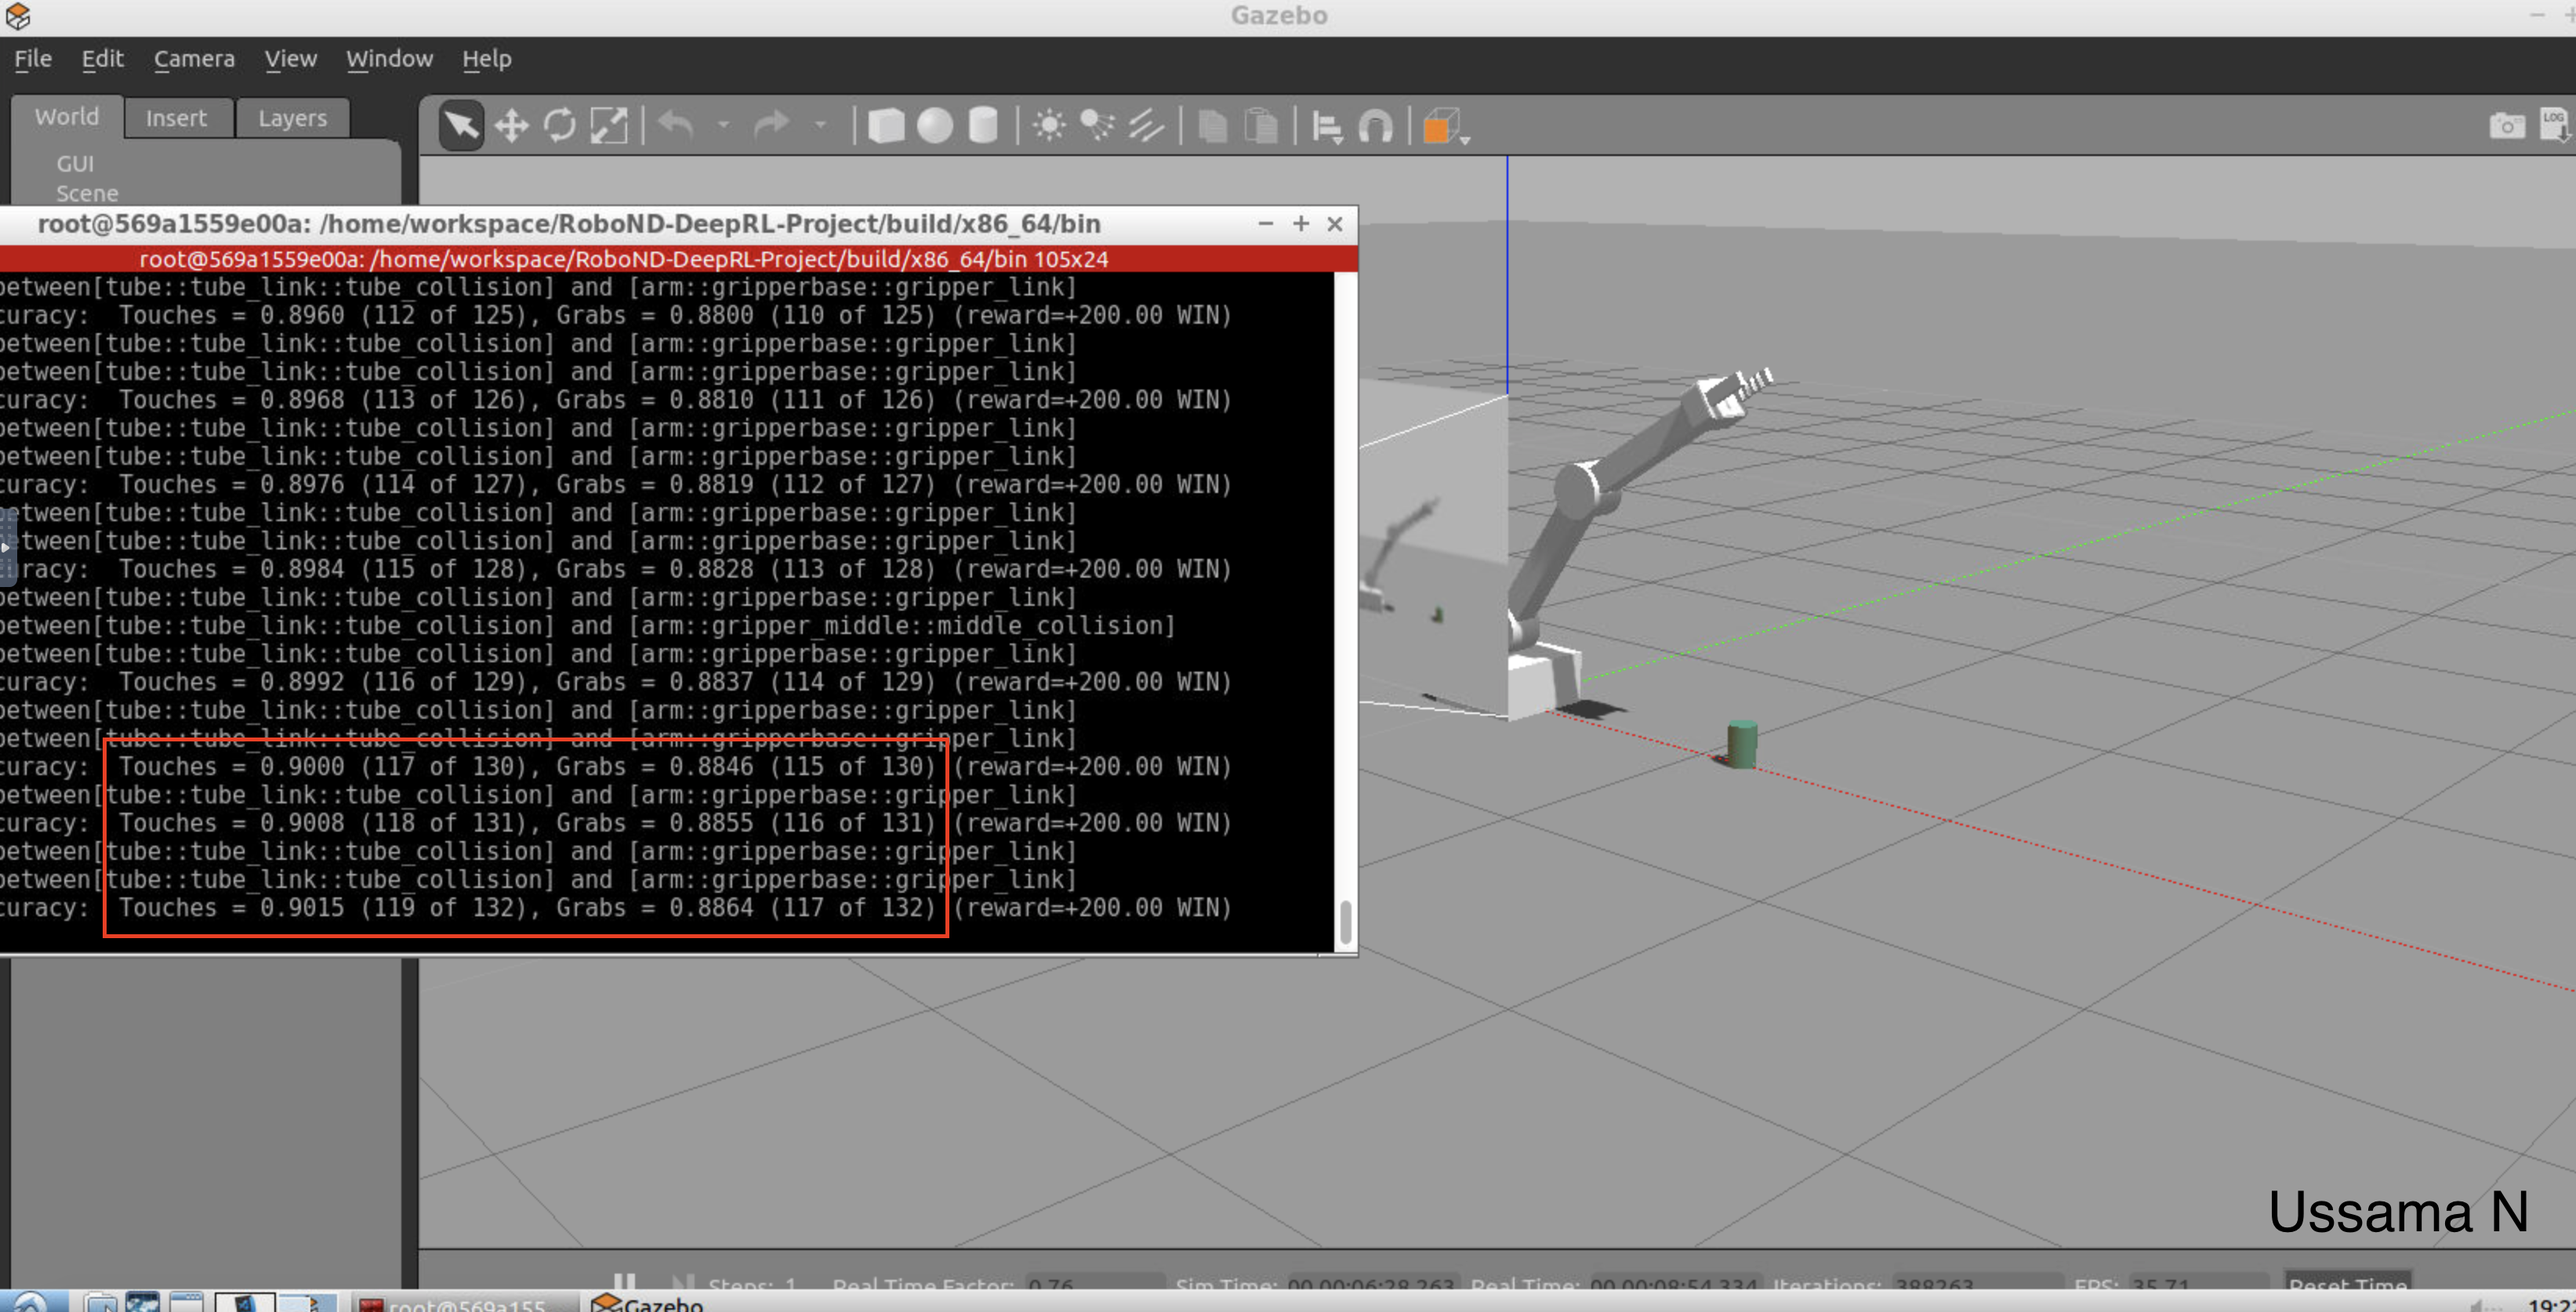
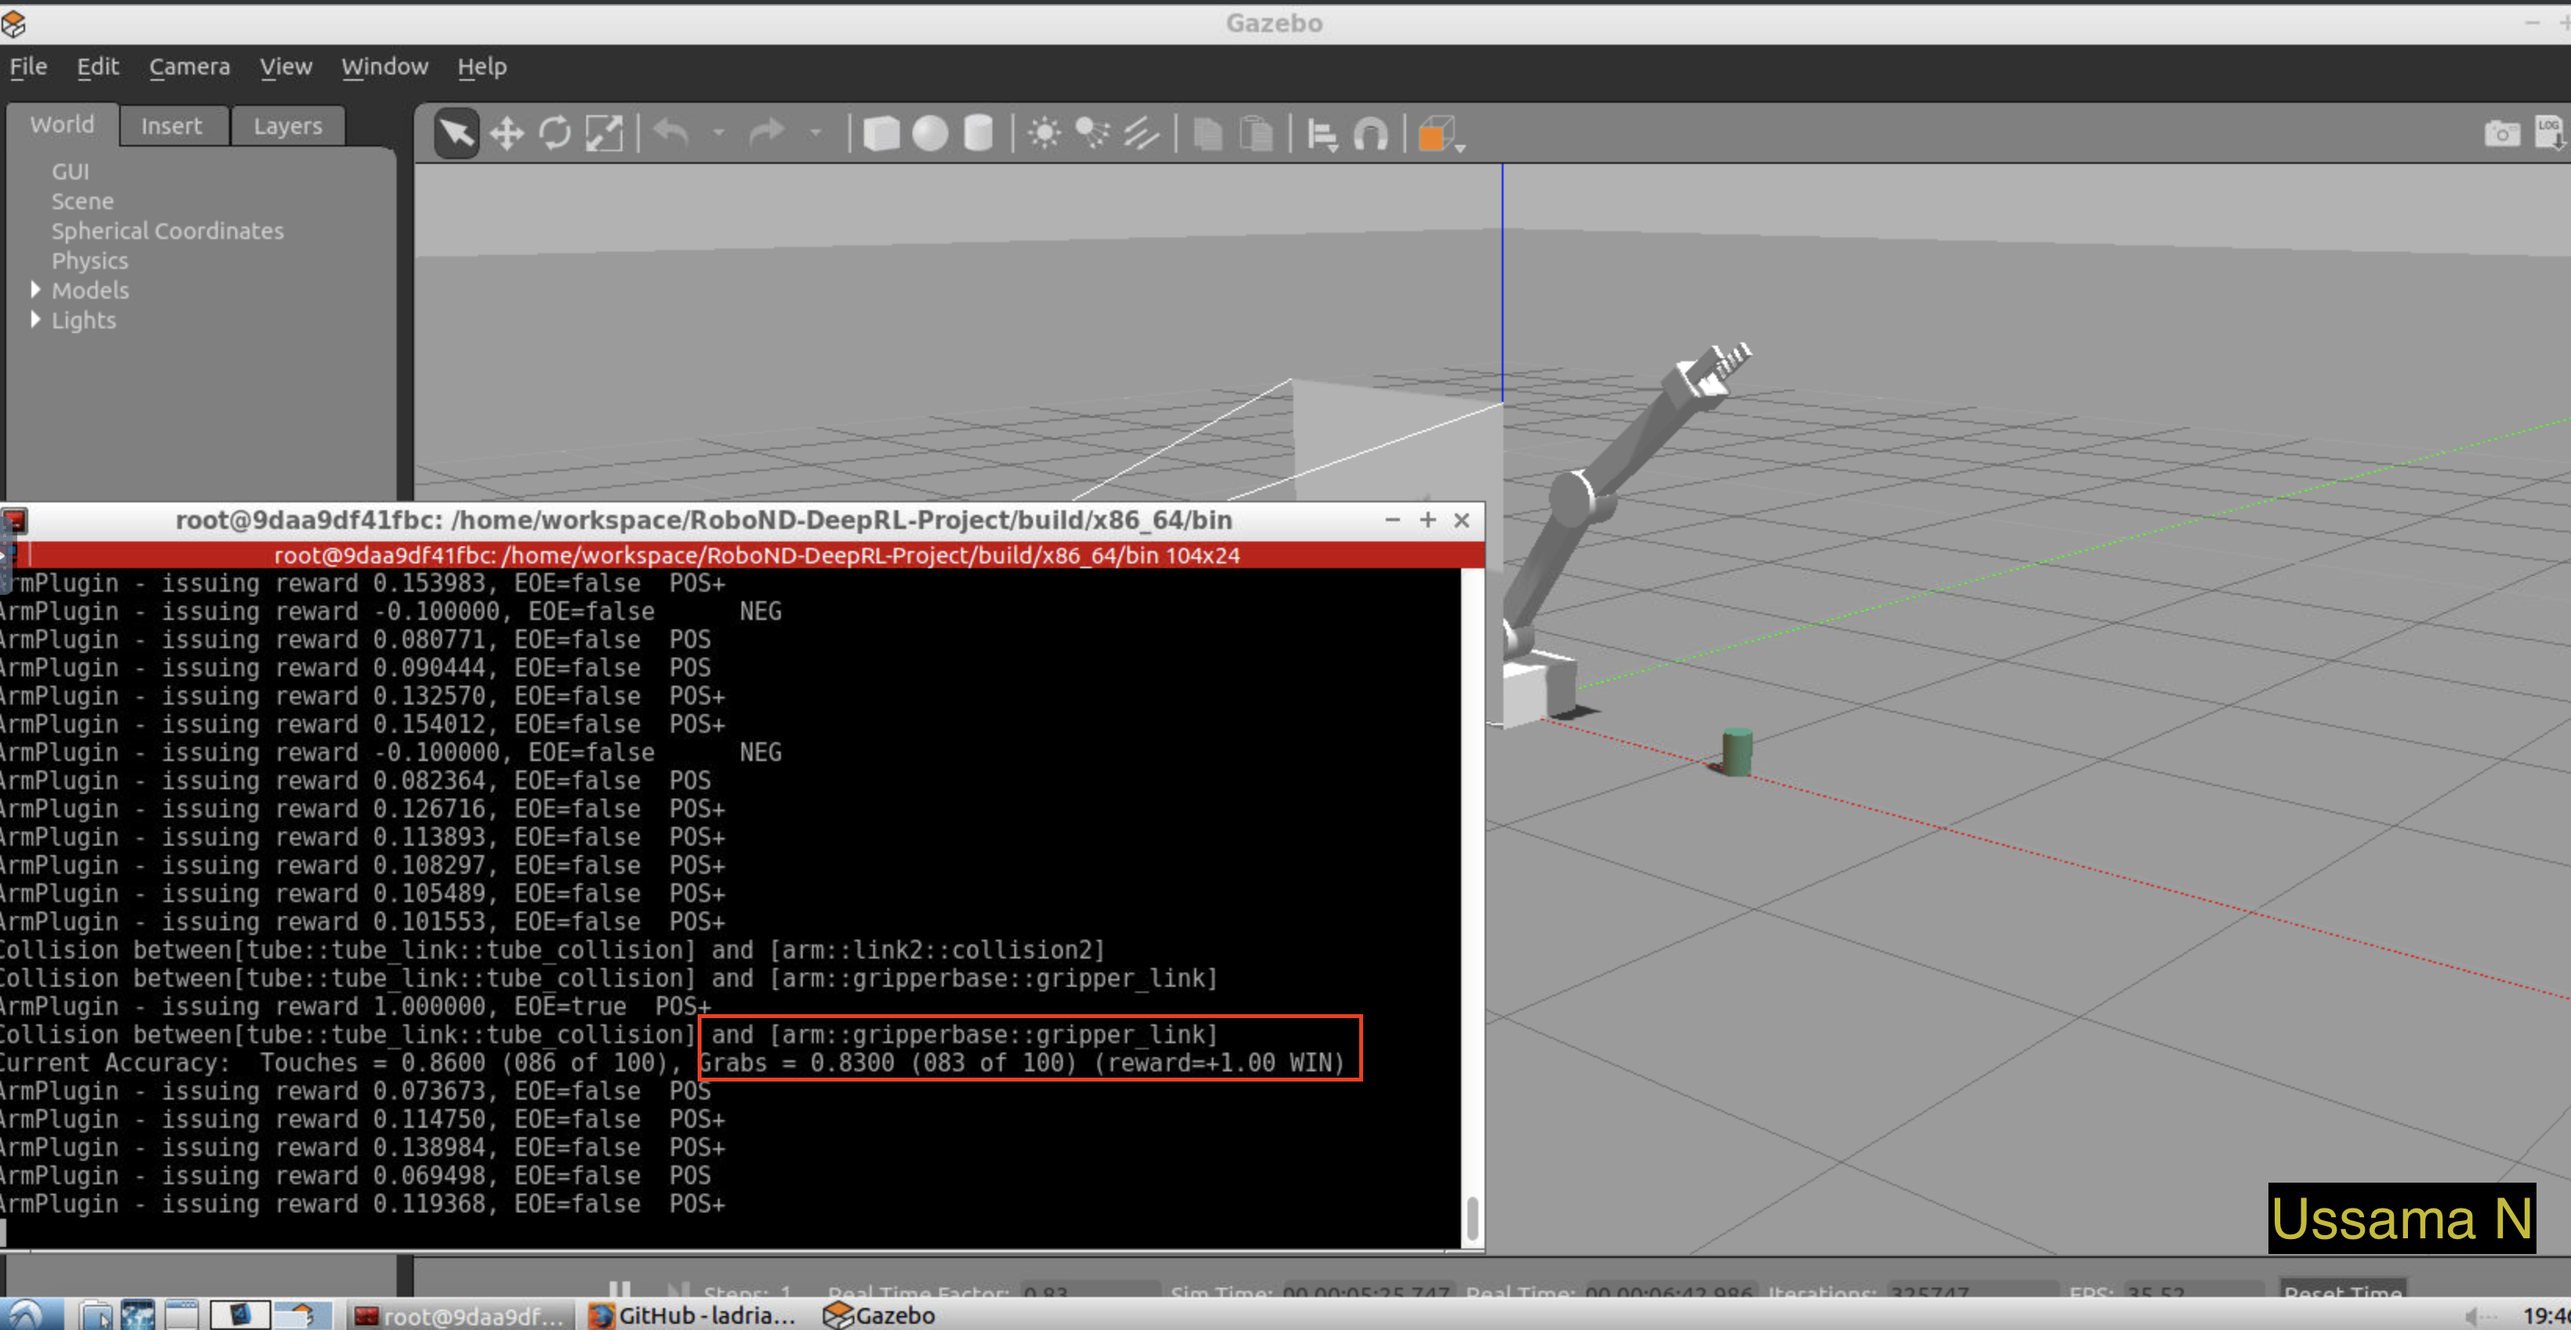
Update raw report files

diff --git a/report/main.tex b/report/main.tex
@@ -6,7 +6,7 @@
 
 \title{Udacity Manipulator Arm Report}
 \author{Ussama Naal}
-\date{May 2019\\v2.0}
+\date{May 2019\\v3.0}
 \begin{document}
 
 \maketitle
@@ -203,9 +203,9 @@ void ArmPlugin::OnUpdate(const common::UpdateInfo& updateInfo)
 
 Table 1, lists all used parameters and their values with a brief explanation to the used values when a value has been changed.
 
-\begin{table}[ht]
-\caption{Parameters}
-\label{table_example}
+\begin{table}[!ht]
+\caption{Initial Parameters}
+\label{initial_params}
 \begin{center}
 \begin{tabular}{|c||c||c|}
 \hline
@@ -249,22 +249,96 @@ For the reward value, I have initially started with +100 and -100 for win and lo
 
 \section{Results}
 
+\subsection{Initiail Results}
 Under current implementation and the selected parameter values the robot achieves about 90\% successful touches and 88\% successful grabs within 130 episodes (Check Figure 1). It reaches easily 80\% within just 100 iterations.
 
 \begin{figure}[!thpb]
       \centering
-      \includegraphics[width=\linewidth]{final-result.png}
-      \caption{Best achieved result.}
+      \includegraphics[width=\linewidth]{initial-result.png}
+      \caption{Initial achieved result.}
       \label{fig:robot1}
 \end{figure}
 
 %Student should describe and briefly explain the results they achieved for both objectives. The discussion should also include their comments on the DQN agent's performance and if there were any shortcomings.
 
-Doubling the REWARD values for WIN and LOSS from previous tests, had a huge impact on the agent performance. This seems to signal to the agent that the final results is the only that matters.
+Doubling the REWARD values for WIN and LOSS from previous tests, had a huge impact on the agent performance. This signals to the agent that the final results is the only that matters.
 
 Some noticeable shortcomings is that the first few iterations greatly decides the final outcome. If the agent was able to touch or grab the object in the beginning, this results in a better chance of the agent achieving the required performance within a 100-150 runs. However, assuming the agent can do more runs then this wouldn't be an issue.
 
+\subsection{Improved Results}
+To make the arm gripper achieve 80+\% accuracy within a 100 frames. I have made couple few changes to the code and tuned parameters appropriately.
+
+In ArmPlugin::OnUpdate we made the following changes:
+\begin{lstlisting}
+void ArmPlugin::OnUpdate(const common::UpdateInfo& updateInfo)
+{
+    ...
+    const float a = 0.5;
+    avgGoalDelta = a * avgGoalDelta + (1 - a) * distDelta;
+    rewardHistory = (avgGoalDelta > 0.01 ? avgGoalDelta : 0.1 * REWARD_LOSS);
+    newReward     = true;
+	...
+}
+\end{lstlisting}
+What this change does it rewards the RL agent only when making significant steps towards the target (+0.01) otherwise the agent is rewarded negatively when it moves away or when the arm stay somewhat stationary.
+
+Another change we implemented is when part of the arm hits the object we used to terminate the episode immediately in fear that the target moves from its place. This was not the cast all the time. The target object can potentially move away but only in fraction of the cases this happens. When the target object stays in place the arm can potentially proceed and succeed in grabbing the object. This allows us to gain more successful grabs. The following listing summarizes these changes
+
+\begin{lstlisting}
+void ArmPlugin::onCollisionMsg(ConstContactsPtr &contacts)
+{
+    ...
+    if (contacts->contact(i).collision1() == COLLISION_ITEM &&
+    	contacts->contact(i).collision2() == COLLISION_POINT)
+    {
+    	rewardHistory = REWARD_WIN;
+    	newReward  = true;
+    	endEpisode = true;
+    	return;
+    }
+    else
+    {
+    	rewardHistory = REWARD_LOSS;
+    	newReward  = true;
+    	endEpisode = false; /* Don't end episode, keep going */
+    }
+    ...
+}
+\end{lstlisting}
+
+Since we removed the multiplication by REWARD\_WIN for interim rewards. The REWARD\_WIN and REWARD\_LOSS had to be adjusted. Table 2 shows only updated parameters. Additionally, we lowered the learning rate from 0.1 to 0.01, this resulted in more expected outcome across different runs of the entire simulation.
+
+\begin{table}[ht]
+\caption{Updated Parameters}
+\label{updated_params}
+\begin{center}
+\begin{tabular}{|c||c||c|}
+\hline
+Parameter & Value & Explanation\\
+\hline
+LEARNING\_RATE & 0.01 & Lowering this from previous makes the outcome consistent \\
+\hline
+BATCH\_SIZE & 32 & Reduced from 64 \\
+\hline
+REWARD\_WIN  & 1.0f & Scales well with the new interim reward: avgGoalDelta \\
+\hline
+REWARD\_LOSS & -1.0f & Consistent with REWARD\_WIN \\
+\hline
+\end{tabular}
+\end{center}
+\end{table}
+
+Figure 2 shows the outcome of this run under the updated code and parameters. We can clearly see that the arm gripper was able to execute 83 successful grabs out of 100 runs.
+
+\begin{figure}[!thpb]
+      \centering
+      \includegraphics[width=\linewidth]{final-result.png}
+      \caption{Best achieved result.}
+      \label{fig:robot2}
+\end{figure}
+
 %Student should discuss on what approaches they could take to improve their results.
+\subsection{Conclusions}
 To improve the results even further, we can let the agent train for longer time such that it will have better chance of discovering the optimal policy. Once the robot learns, we should be able to disable or reduce the amount of randomness in agent and apply the optimal policy and that should give us better results.
 
 Another way to produce better results is to a grid search on the list of parameters.
